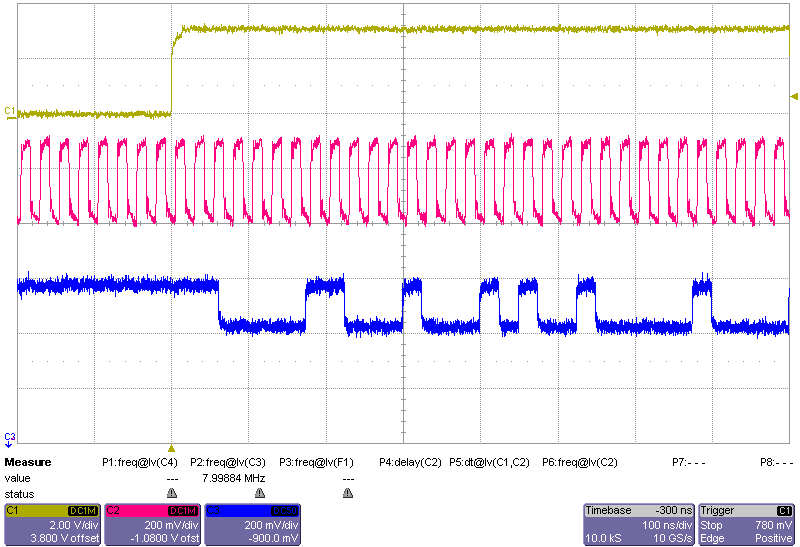
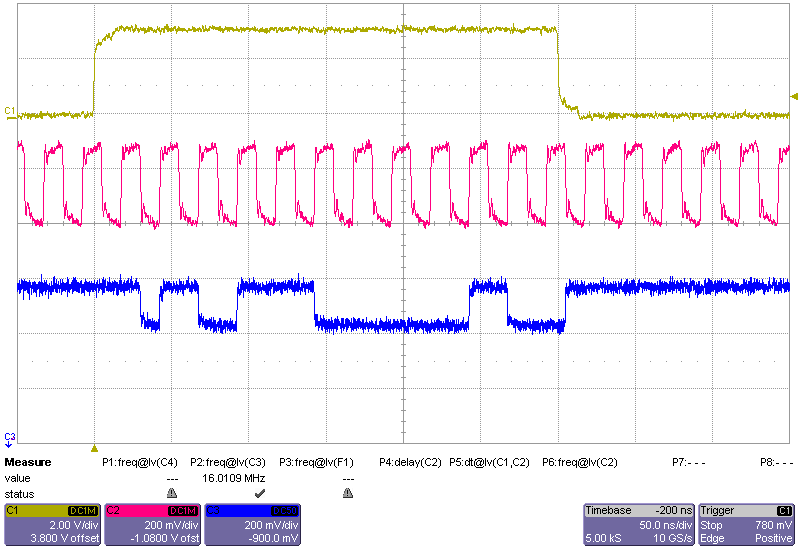
Weiter

diff --git a/tutorial.tex b/tutorial.tex
@@ -92,7 +92,7 @@ Now we insert a ROC into the adapter board. Don't forget to check that nothing i
 
 Add another cable to connect \psicommand{A2+} to the third channel of your scope.
 
-We want to see the ROC talking. For this we simply send a command to set some register on the chip and see what happens. It doesn't matter which register we use, setting \psicommand{vcal} does the job. So the sequence of commands in \texttt{psi46test} is:
+We want to see the ROC talking. For this we simply send a command to the chip and see what happens. For the moment it doesn't matter what we send out, sending \psicommand{cald} does the job. So the sequence of commands in \texttt{psi46test} is:
 
 \bigskip
 
@@ -100,11 +100,16 @@ We want to see the ROC talking. For this we simply send a command to set some re
     \toprule
 Command & Brief description \\
     \midrule
-\psicommand{pon}               & Turn on the testboard power \\
-\psicommand{d1 3} & Select the \psicommand{send} signal as the one we trigger on the scope \\
-\psicommand{a1 4} & Select the clock signal for channel 2 \\
-\psicommand{a2 5} & Select the send data signal for channel 3 \\
-\psicommand{vcal 0} & Program a register on the ROC \\
+\psicommand{pon}   & Turn on the testboard power \\
+\psicommand{clk 0} & Resets some timing parameter \\
+\psicommand{ctr 0} & Resets some timing parameter \\
+\psicommand{sda 0} & Resets some timing parameter \\
+\psicommand{tin 0} & Resets some timing parameter \\
+\psicommand{select 0} & Sets the address of the chip we want to talk to \\
+\psicommand{d1 3}  & Select the \psicommand{send} signal as the one we trigger on the scope \\
+\psicommand{a1 4}  & Select the clock signal for channel 2 \\
+\psicommand{a2 5}  & Select the send data signal for channel 3 \\
+\psicommand{cald}  & Program a register on the ROC \\
     \midrule
 \psicommand{poff}              & Turn off the testboard power. Do this after you are finished with your measurements. \\
     \bottomrule
@@ -112,7 +117,8 @@ Command & Brief description \\
 
 \bigskip
 
-To make things visible you need to use the scope in single trigger mode. You can issue the \psicommand{vcal 0} command as often as you want. You should see something like in Fig.~\ref{fig:tut_scope2}.
+The four timing parameters we just adjust to some default value of 0. We will adjust them in the next part of this tutorial.
+To make things visible you need to use the scope in single trigger mode. You can issue the \psicommand{cald} command as often as you want. You should see something like in Fig.~\ref{fig:tut_scope2}.
 
 \begin{figure}[h]
     \begin{center}
@@ -122,10 +128,68 @@ To make things visible you need to use the scope in single trigger mode. You can
     \end{center}
 \end{figure}
 
-The result shows the signal we trigger on. The \psicommand{send} signal is internal to the testboard and only available to our convenience \todo{Beat: stimmt das? Wie ist das Signal genau definiert?} for triggering. The clock is here to give an idea over what timeframe the action happens. The activity spans over several clock cycles. It begins with the header addressing the ROC, followed by a bunch of other signals in a pattern we do not need to understand right now. In our example we did not set a specific ROC address, the value to talk to a specific ROC. If we would work with a module, 16 ROC's would be present. With this address we would choose to which of these we want to talk. The default value is \psicommand{0}. But how is this encoded? To address one ROC out of 16 we need four bits. Encoding 0 would end in \psicommand{b0000}. So we should see four zeroes, which is what we see. The length of one bit is a full clock cycle, i.e.~clock up and down. Try to count the clock cycles and make sure you understand how this works.
+The result shows the signal we trigger on. The \psicommand{send} signal is internal to the testboard and only available to our convenience for triggering. The clock is here to give an idea over what timeframe the action happens. The activity spans over several clock cycles. It begins with the header addressing the ROC, followed by a bunch of other signals in a pattern we do not need to understand right now. In our example we did not set a specific ROC address, the value to talk to a specific ROC. If we would work with a module, 16 ROC's would be present. With this address we would choose to which of these we want to talk. The default value is \psicommand{0}. But how is this encoded? To address one ROC out of 16 we need four bits. Encoding 0 would end in \psicommand{b0000}. So we should see four zeroes, which is what we see. The length of one bit is a full clock cycle, i.e.~clock up and down. Try to count the clock cycles and make sure you understand how this works.
 
 You can change the ROC address to talk to by issuing \psicommand{select N}, where N is a number between 0 and 15 and see what changes. If you do e.g.~\psicommand{select b0111} (recall: a number starting with a b is interpreted as a binary number, which comes in handy here) then you see that the signal is low for a logical 0 and then three logical 1 follow. Play around with different numbers to make sure you understand this pattern.
 
 \section{Listening to the ROC}
 The result of the previous step shows the testboard talking to the ROC only. The real thing is to talk to the ROC and read back some information. But for this we need to work on some timing issues first.
+
+What we will do first is to adjust the timing of signal to program the ROC relative to the clock. For this we use the same setup as before and start to set values for the delay of the clock signal \psicommand{clk} and the send data signal \psicommand{sda}. All delay values can be set as positive numbers up to a maximum of about 300. All this takes place in units of $1/20$ of a clock cycle. So setting a value of 20 would shift the delay by exactly one clock cycle. Issue the following command and see what happens:
+
+\bigskip
+
+\begin{tabular}{lp{0.6\textwidth}}
+    \toprule
+\psicommand{clk 20} & Sets the delay of the clock to 20, i.e.~one full cycle \\
+    \bottomrule
+\end{tabular}
+
+\bigskip
+
+As expected, you see no significant change. The clock has been shifted by one full cycle, so the picture should be the same.
+
+Observe that we no longer write \psicommand{pon} and \psicommand{poff} at the begin and end of the sequence. Make sure you do this whenever you measure something.
+
+We can only set positive values. At some point we might want to have the ability to set delays negative to the clock. Therefore we set the value to some positive number, say 10:
+
+\bigskip
+
+\begin{tabular}{lp{0.6\textwidth}}
+    \toprule
+\psicommand{clk 10} & Sets the delay of the clock to 10, i.e.~one full cycle \\
+    \bottomrule
+\end{tabular}
+
+\bigskip
+
+The change you see on the oscilloscope is minimal. The clock is shifted by half a cycle, so more or less inverted. Now we need to know how we have to set the \psicommand{sda} signal relative to the clock. The programming of the chip uses a modified $I^2C$ signal. Modified means here that not the full set of possibilities are implemented. $I^2C$ is an industry standard to communicate with electronic devices and is widely used for example in the car industry. Our implementation differs that we can send data much faster but cannot read back on the same wire.
+
+$I^2C$ is a serial interface and uses a clock and a data wire to communicate. The following states are possible:
+
+\bigskip
+
+\begin{tabular}{lcl}
+    \toprule
+Name & Data signal while clock is high & Description \\
+    \midrule
+idle & high & No data transferred \\
+start & falling edge & Data transfer starts \\
+data & high or low & Data to be transferred \\
+stop & rising edge & Data transfer ends \\
+    \bottomrule
+\end{tabular}
+
+\bigskip
+
+All the interesting stuff goes on when clock is on high level. Before we try to analyse the signal in detail we adjust the timing. The very first change on \psicommand{sda} should be a drop from high to low while clock is high (start). So inspecting Fig.~\ref{fig:tut_scope2} shows that this is not the case. Try to shift the signal by setting the delay using the \psicommand{sda} command to the smallest possible value but not smaller than what we used for \psicommand{clk}. You should end up with something that looks like Fig.~\ref{fig:tut_scope3}
+
+\begin{figure}[h]
+    \begin{center}
+	\includegraphics[width=0.7\textwidth]{img/tut_scope3.png}
+	\caption{Same as in Fig.~\ref{fig:tut_scope2} but now the timing is correctly adjusted between clock and send data.}
+	\label{fig:tut_scope3}
+    \end{center}
+\end{figure}
+
 
